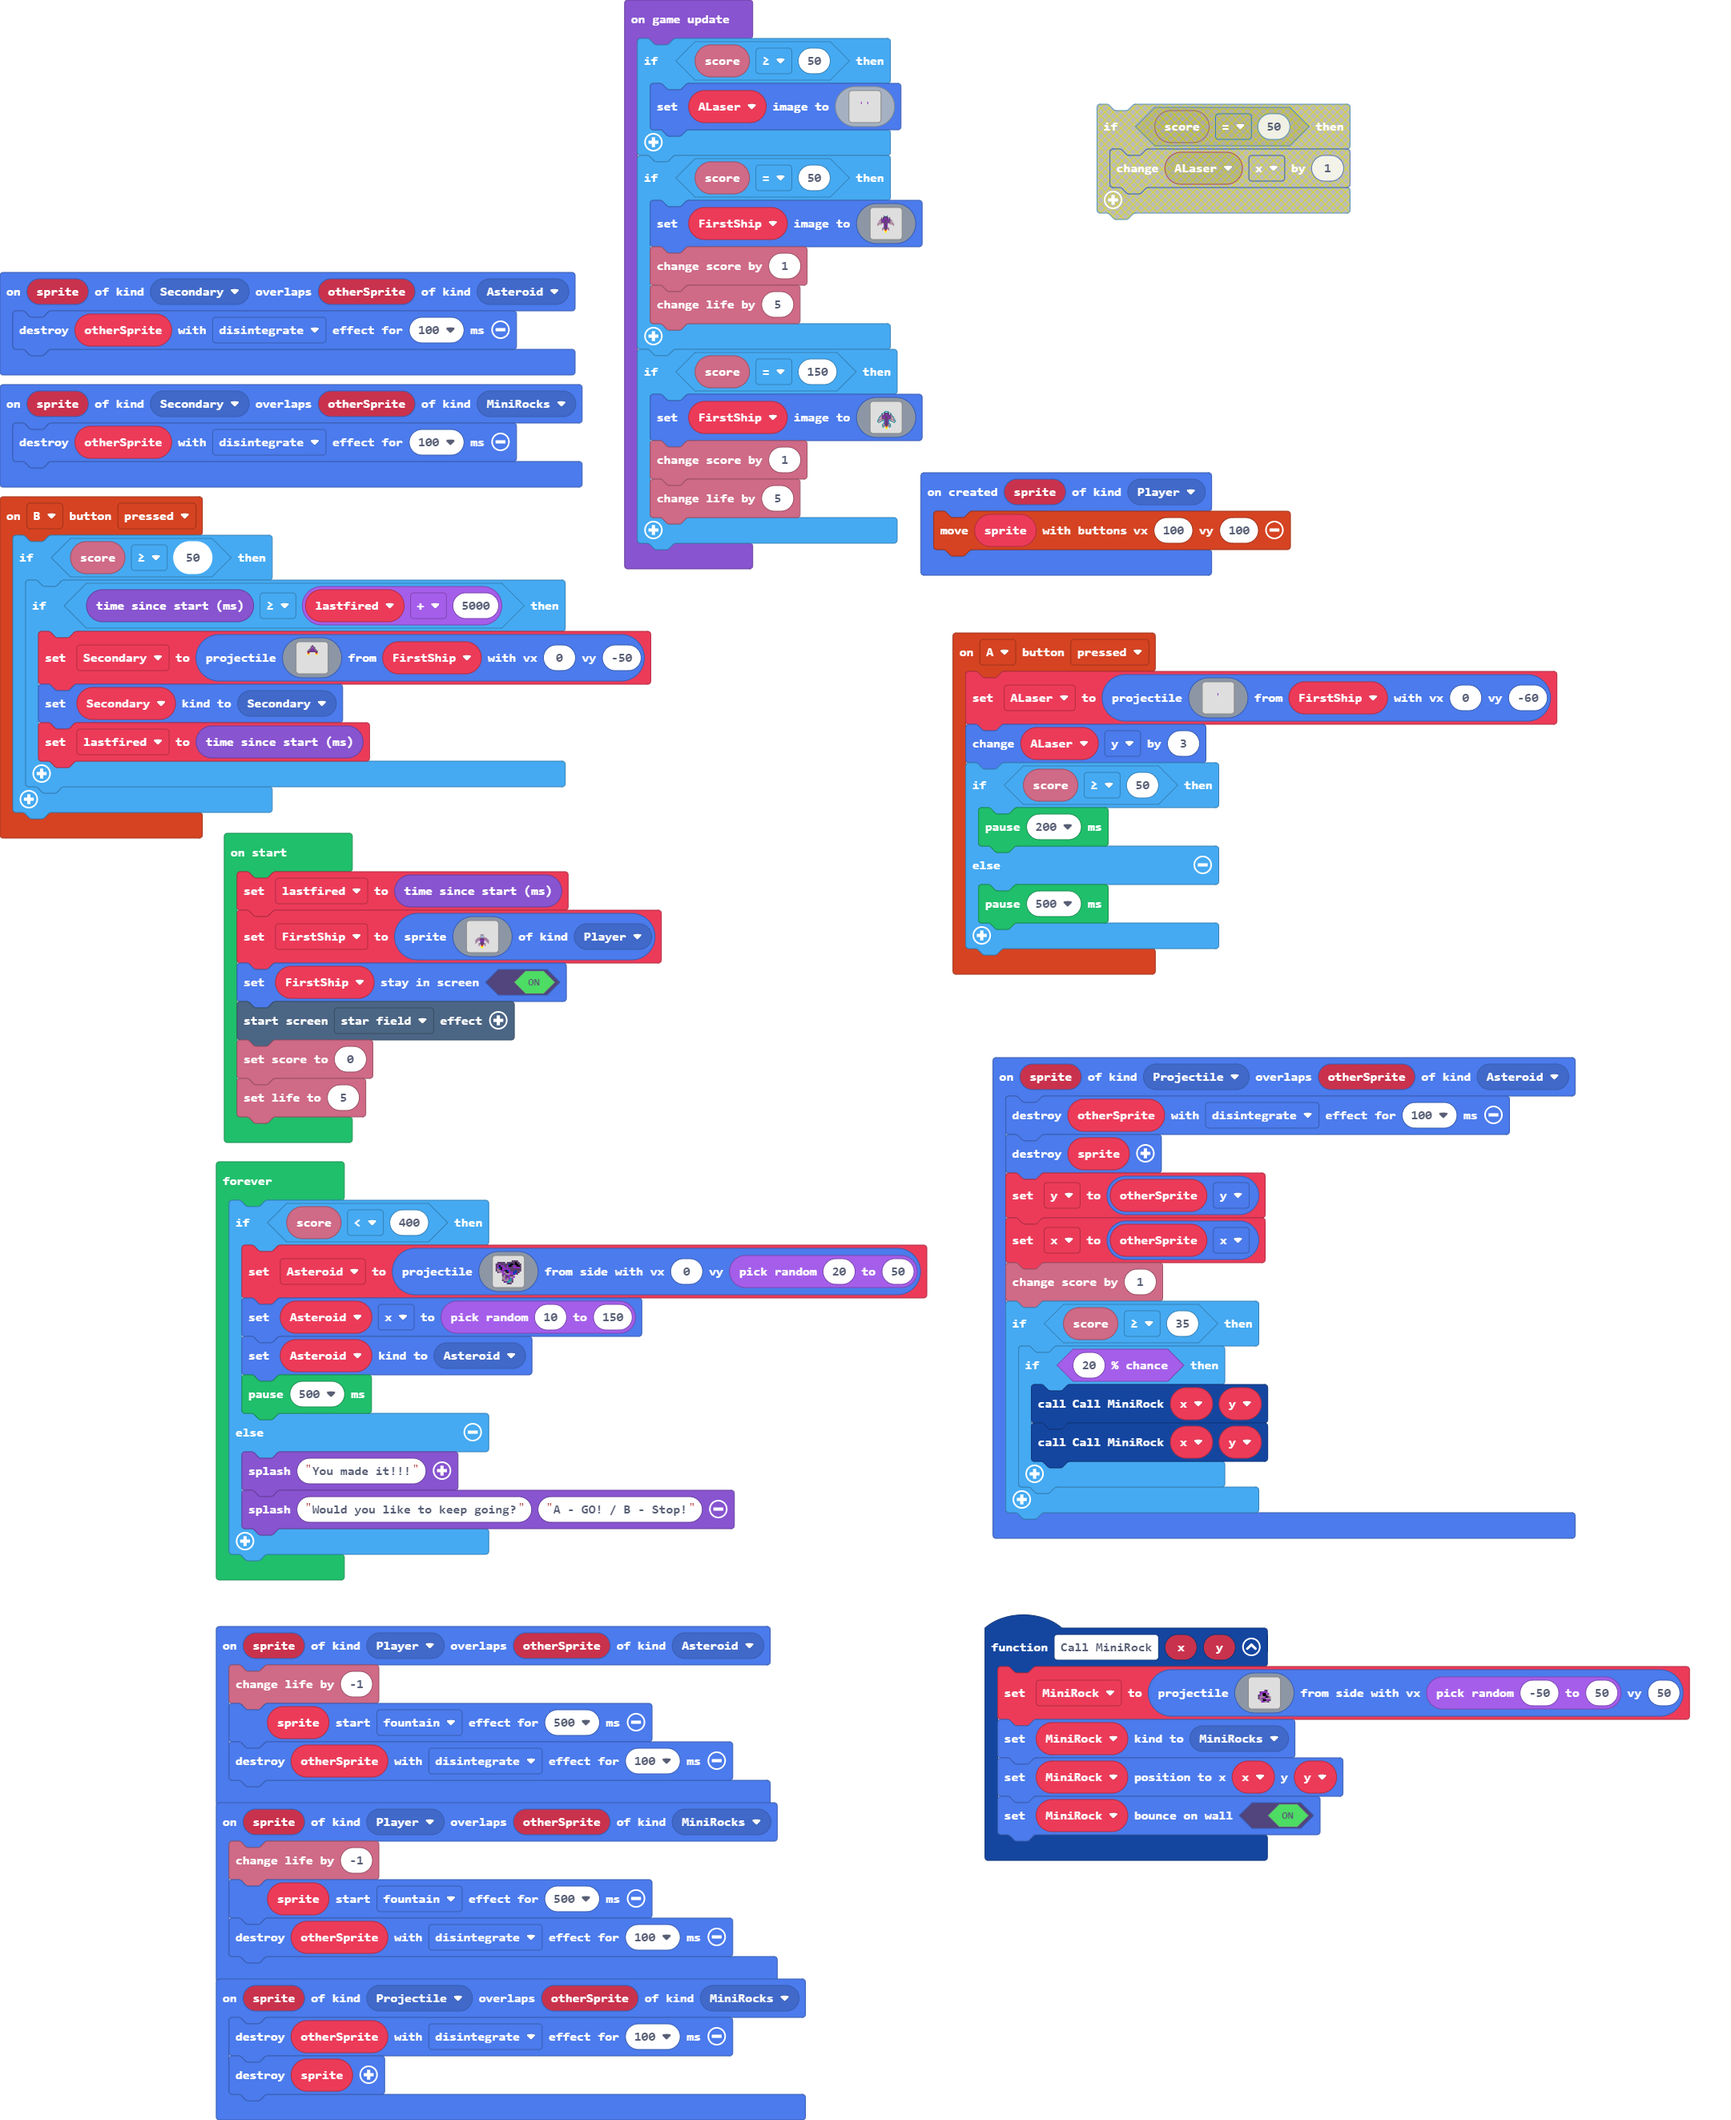
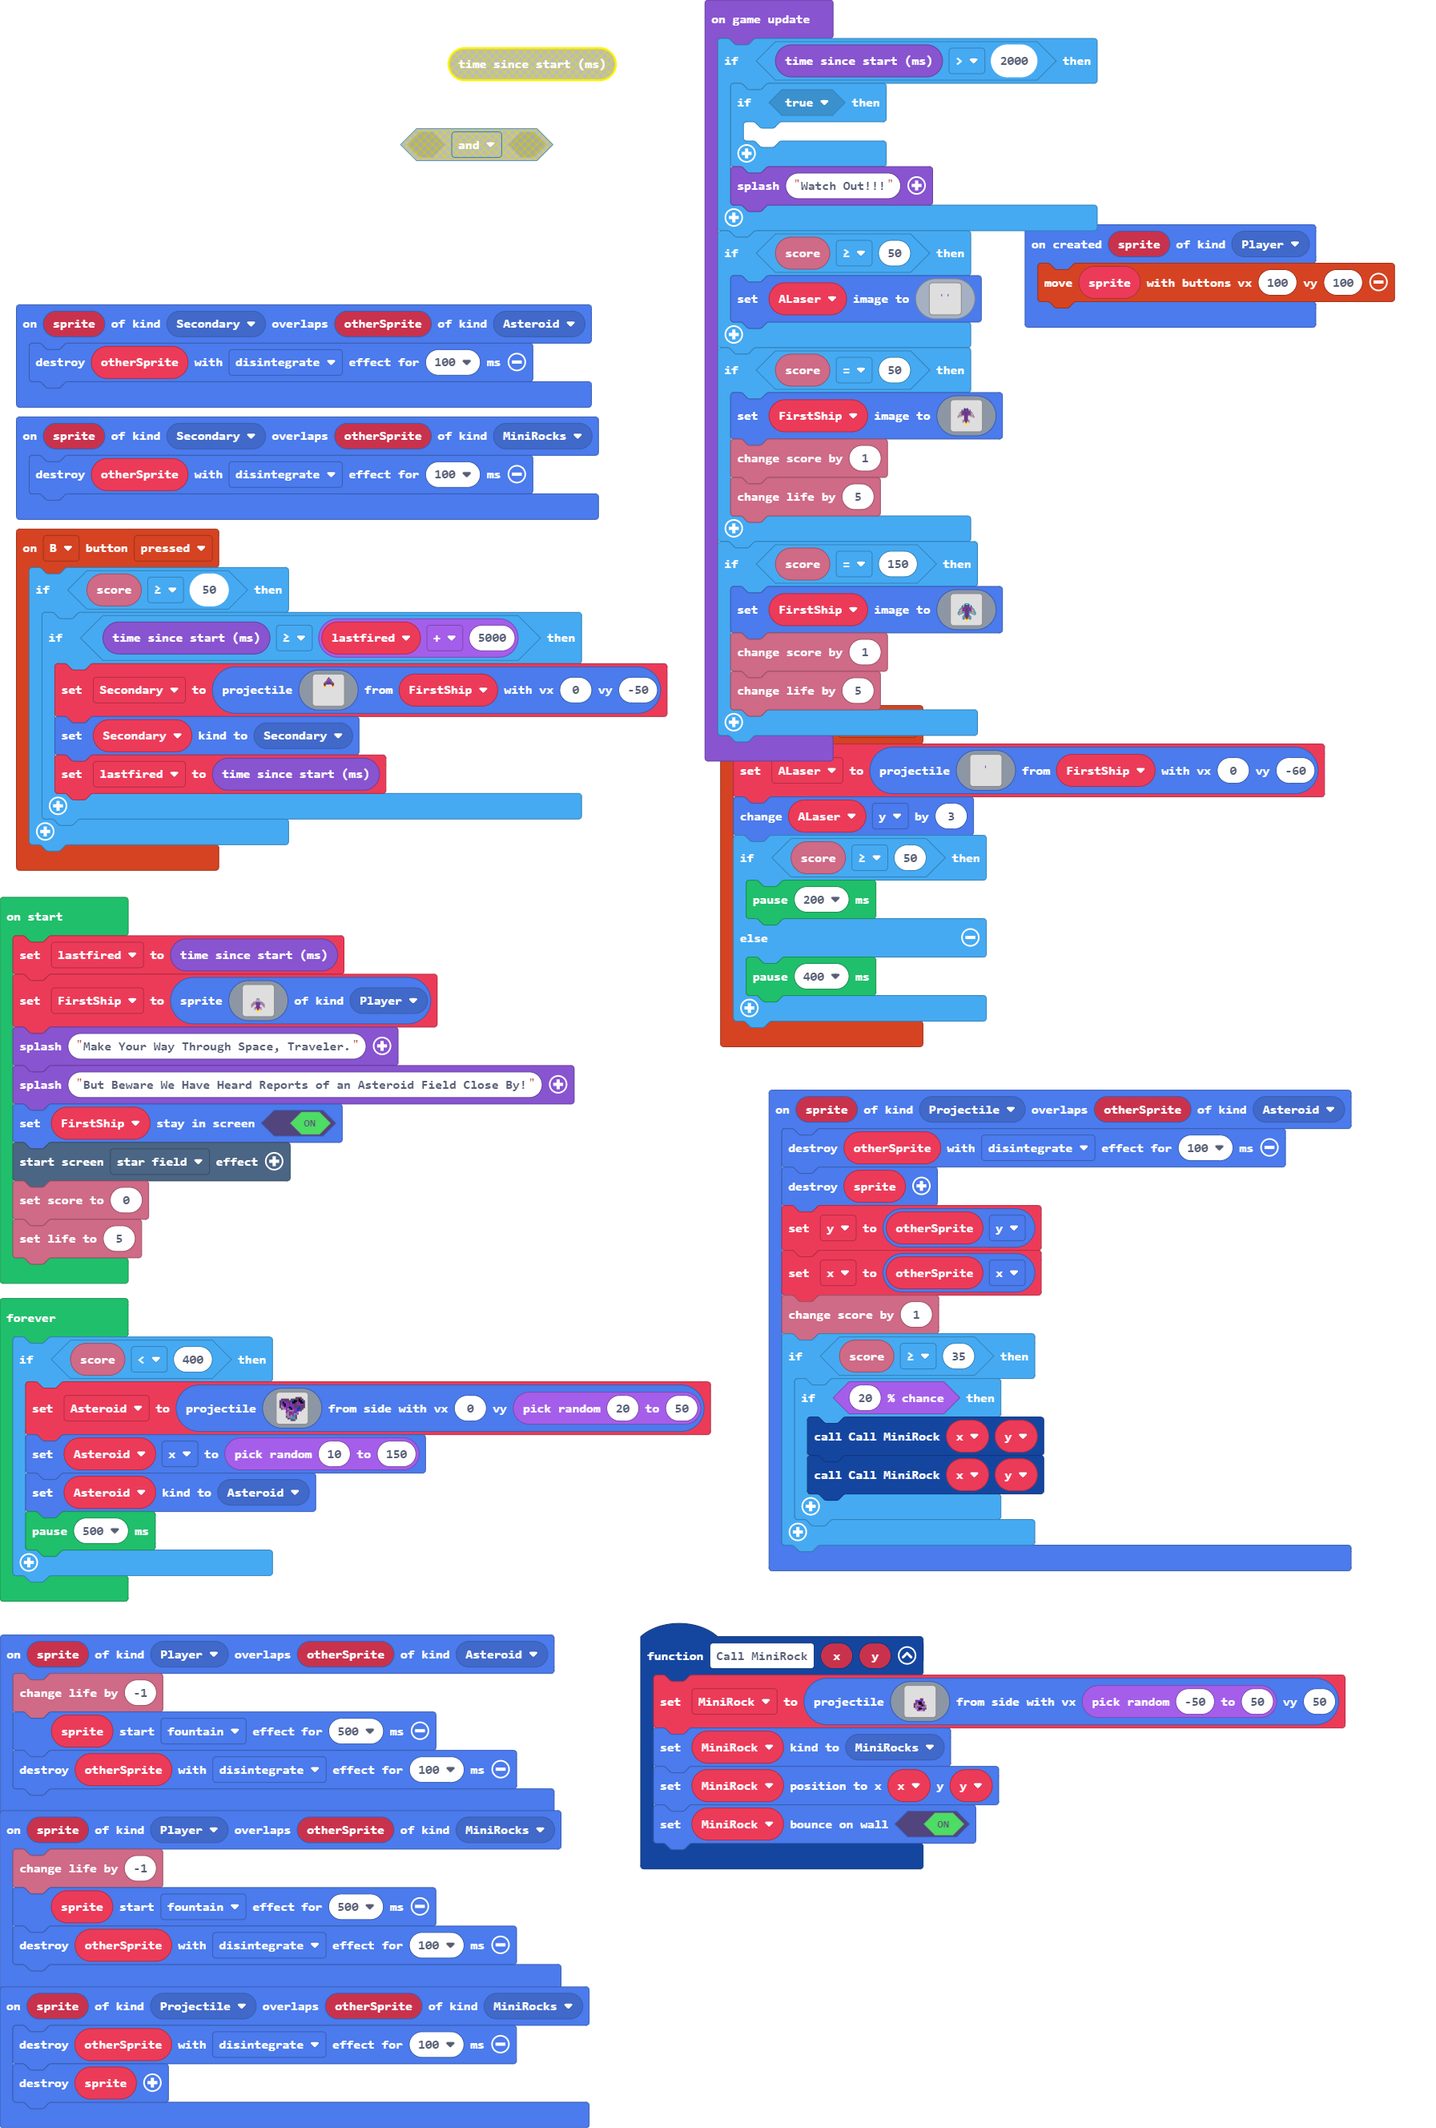
Update main.blocks, main.ts

diff --git a/main.ts b/main.ts
@@ -59,7 +59,7 @@ controller.A.onEvent(ControllerButtonEvent.Pressed, function () {
     if (info.score() >= 50) {
         pause(200)
     } else {
-        pause(500)
+        pause(400)
     }
 })
 function Call_MiniRock (x: number, y: number) {
@@ -107,11 +107,19 @@ let FirstShip: Sprite = null
 let lastfired = 0
 lastfired = game.runtime()
 FirstShip = sprites.create(assets.image`spaceship`, SpriteKind.Player)
+game.splash("Make Your Way Through Space, Traveler.")
+game.splash("But Beware We Have Heard Reports of an Asteroid Field Close By!")
 FirstShip.setStayInScreen(true)
 effects.starField.startScreenEffect()
 info.setScore(0)
 info.setLife(5)
 game.onUpdate(function () {
+    if (game.runtime() > 2000) {
+        if (true) {
+        	
+        }
+        game.splash("Watch Out!!!")
+    }
     if (info.score() >= 50) {
         ALaser.setImage(img`
             ................................
@@ -165,8 +173,5 @@ forever(function () {
         Asteroid.x = randint(10, 150)
         Asteroid.setKind(SpriteKind.Asteroid)
         pause(500)
-    } else {
-        game.splash("You made it!!!")
-        game.splash("Would you like to keep going?", "A - GO! / B - Stop!")
     }
 })
